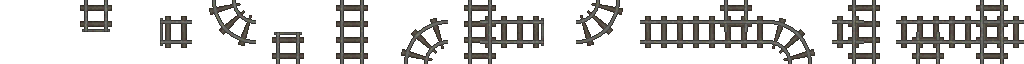
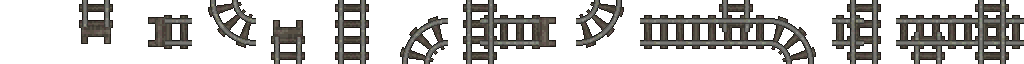
feat(terrain): bolder Floor 2 track, real buffer stops, wrapped pipe rivet bands
Track rails and sleepers widen (railHalfWidth 2->3, railOffset 10->11,
tieHalfWidth 2.5->3.5) and gain a near-black silhouette rim plus a wider
value spread, so they read as bold drawn linework instead of washing into
the floor. Mean and max luminance are deliberately held: restyle
normalises toward the target, so raising it would make track brighter,
which is the opposite of the note and violates the near-floor-tone rule.

Buffer stops now actually render. stubCurve caps alongMax at HALF, so
project() discarded every terminal pixel past the cell centre and the beam
was only ever half painted. A dedicated capCurve reaches CAP_REACH past
centre for Cap classification only, leaving rails and ties on the
HALF-limited stub so no connected edge profile changes. Terminals gain
braced buttress blocks and are cut from the sleeper material.

Pipe collars become paired rivet bands that wrap the bore rather than two
dots stuck to the silhouette, keeping the cylinder ramp and lifting it so
the ring reads as raised hardware.

diff --git a/scripts/sprites/terrain-packs/gen/linework-geometry.ts b/scripts/sprites/terrain-packs/gen/linework-geometry.ts
@@ -135,6 +135,16 @@ function straightCurve(bit: number): Curve {
 }
 
 /**
+ * Stub extended past the cell centre so terminal hardware can be projected.
+ * Used ONLY to classify `Cap` pixels on end-cap masks; rails and ties keep the
+ * HALF-limited `stubCurve`, so this cannot alter any connected edge's profile.
+ */
+function capCurve(bit: number): Curve {
+  const stub = stubCurve(bit) as Extract<Curve, { kind: 'line' }>;
+  return { ...stub, alongMax: HALF + CAP_REACH };
+}
+
+/**
  * Quarter arc joining two adjacent edge midpoints, centred on the cell corner
  * between them with radius `HALF`. This is the only corner geometry that leaves
  * the boundary profile identical to a straight's — see the file header.
@@ -198,32 +208,65 @@ export interface LineworkProfile {
   readonly tiePeriod: number;
   /** Arc-length phase of the first cross-member from the connected edge. */
   readonly tiePhase: number;
+  /**
+   * Arc-length offset of each ring in a PAIRED cross-member, or 0 for a single
+   * band. A pipe reads as pressure plumbing when its collars are rivet-band
+   * pairs rather than lone rings, and doubling the ring count is the cheapest
+   * honest way to add the "more rivet bands" the human asked for without
+   * shrinking the period so far that bands collide with the edge clearance.
+   */
+  readonly tieDoubleGap: number;
   /** Half-length of the terminal buffer stop / ground flange. */
   readonly capHalfLength: number;
   /** Half-width of the terminal hardware along the run. */
   readonly capHalfWidth: number;
 }
 
+/**
+ * How far past the cell centre terminal hardware may reach.
+ *
+ * Cap geometry needs its OWN curve. `stubCurve` stops at `alongMax = HALF`, so
+ * `project()` returns null for every pixel past the cell centre — which meant
+ * the original cap test `|along - HALF| <= capHalfWidth` only ever painted the
+ * near half of its beam, and any buttress behind that beam was silently
+ * discarded. Rails and ties keep the HALF-limited stub, so widening the cap
+ * reach cannot change what a connected edge paints.
+ */
+const CAP_REACH = 12;
+
+/** Half-length of a buffer-stop buttress measured inward from `capHalfLength`. */
+const BUTTRESS_DEPTH = 7;
+
+/** Arc length of a buffer-stop buttress behind the beam. */
+const BUTTRESS_LENGTH = 7;
+
+/** Skips the centreline pass when terminal hardware already claimed a pixel. */
+const EMPTY_CURVES: readonly Curve[] = [];
+
 /** Mine-cart track: two rail heads on periodic sleepers. */
 export const TRACK_PROFILE: LineworkProfile = {
-  railOffset: 10,
-  railHalfWidth: 2,
-  tieHalfLength: 16,
-  tieHalfWidth: 2.5,
+  railOffset: 11,
+  railHalfWidth: 3,
+  tieHalfLength: 17,
+  tieHalfWidth: 3.5,
   tiePeriod: 16,
   tiePhase: 8,
-  capHalfLength: 14,
-  capHalfWidth: 3,
+  tieDoubleGap: 0,
+  capHalfLength: 15,
+  capHalfWidth: 5,
 };
 
-/** Pipe run: one bore with periodic collars. */
+/** Pipe run: one bore with periodic rivet-band pairs. */
 export const PIPE_PROFILE: LineworkProfile = {
   railOffset: 0,
   railHalfWidth: 9,
   tieHalfLength: 12,
-  tieHalfWidth: 2.5,
+  tieHalfWidth: 1.8,
   tiePeriod: 32,
   tiePhase: 16,
+  // Rings sit at arc-length 11/21 and 43/53 of a 64-long straight — four bands
+  // per cell instead of two, every one of them clear of `TIE_EDGE_CLEARANCE`.
+  tieDoubleGap: 5,
   capHalfLength: 13,
   capHalfWidth: 3,
 };
@@ -259,6 +302,25 @@ const TIE_EDGE_CLEARANCE = 4;
 
 function isRail(off: number, profile: LineworkProfile): boolean {
   return Math.abs(Math.abs(off) - profile.railOffset) <= profile.railHalfWidth;
+}
+
+/** Arc-length position within one cross-member period. */
+function ringPhase(along: number, profile: LineworkProfile): number {
+  return (((along - profile.tiePhase) % profile.tiePeriod) + profile.tiePeriod) % profile.tiePeriod;
+}
+
+/**
+ * Signed arc-length distance from the nearest ring of a cross-member.
+ *
+ * With `tieDoubleGap === 0` this is the distance from the collar centre, i.e.
+ * the original single-band behaviour. With a positive gap the collar becomes a
+ * PAIR of rings straddling that centre, which is how a pipe gets twice the rivet
+ * bands without halving the period into the edge-clearance zone.
+ */
+function ringOffset(along: number, profile: LineworkProfile): number {
+  const phase = ringPhase(along, profile);
+  const centred = Math.min(phase, profile.tiePeriod - phase);
+  return centred - profile.tieDoubleGap;
 }
 
 /**
@@ -312,6 +374,11 @@ export function rasterizeLineworkFrame(
   const shade = new Float32Array(size * size);
   const curves = curvesForMask(mask);
   if (curves.length === 0) return { cls, shade };
+  // Terminal hardware is projected on its OWN extended curve so it can reach
+  // past the cell centre; see `CAP_REACH`.
+  const terminal = isEndCap ? capCurve(mask) : null;
+  const buttressNear = HALF + profile.capHalfWidth;
+  const buttressInner = profile.capHalfLength - BUTTRESS_DEPTH;
 
   for (let y = 0; y < size; y++) {
     for (let x = 0; x < size; x++) {
@@ -320,47 +387,68 @@ export function rasterizeLineworkFrame(
       const py = y + 0.5;
       let value: LineworkPixel = LINEWORK_PIXEL.Empty;
       let cross = 0;
-      for (const curve of curves) {
+      // Cap wins over rail: a buffer stop's beam sits ACROSS the rails, so the
+      // rails must read as running into it rather than over it.
+      if (terminal) {
+        const p = project(terminal, px, py);
+        if (p) {
+          const absOff = Math.abs(p.off);
+          if (absOff <= profile.capHalfLength && Math.abs(p.along - HALF) <= profile.capHalfWidth) {
+            value = LINEWORK_PIXEL.Cap;
+            cross = (p.along - HALF) / profile.capHalfWidth;
+          } else if (
+            absOff <= profile.capHalfLength &&
+            absOff >= buttressInner &&
+            p.along >= buttressNear &&
+            p.along <= buttressNear + BUTTRESS_LENGTH
+          ) {
+            // Two buttress blocks braced behind the beam. They are what makes a
+            // terminus read as deliberate hardware instead of a truncated run.
+            value = LINEWORK_PIXEL.Cap;
+            const mid = (profile.capHalfLength + buttressInner) / 2;
+            cross = litFraction(p.dx, p.dy) * ((absOff - mid) / (BUTTRESS_DEPTH / 2));
+          }
+        }
+      }
+      for (const curve of value === LINEWORK_PIXEL.Empty ? curves : EMPTY_CURVES) {
         const p = project(curve, px, py);
         if (!p) continue;
+        const len = curveLength(curve);
+        const onCrossMember =
+          Math.abs(p.off) <= profile.tieHalfLength &&
+          p.along >= TIE_EDGE_CLEARANCE &&
+          p.along <= len - TIE_EDGE_CLEARANCE &&
+          Math.abs(ringOffset(p.along, profile)) <= profile.tieHalfWidth;
         if (isRail(p.off, profile)) {
-          value = LINEWORK_PIXEL.Rail;
-          // Distance out from this member's own centreline, normalised.
-          cross = (Math.abs(p.off) - profile.railOffset) / profile.railHalfWidth;
           // A single-bore member (a pipe) is a cylinder, so it must be lit from
           // ONE fixed screen direction regardless of which way the run travels.
           // `litFraction` supplies that side; the normalised bore offset supplies
           // the depth, so +1 is the lit silhouette edge and -1 the shadowed one.
-          if (profile.railOffset === 0) {
-            cross = litFraction(p.dx, p.dy) * (Math.abs(p.off) / profile.railHalfWidth);
-          }
+          const round = profile.railOffset === 0;
+          // A rivet band WRAPS a pipe, so on a round body the collar takes the
+          // pixel and keeps the cylinder cross-coordinate — that is what makes it
+          // read as a raised ring instead of two dots stuck to the silhouette.
+          // Track sleepers pass UNDER their rails, so rails keep winning there.
+          value = round && onCrossMember ? LINEWORK_PIXEL.Tie : LINEWORK_PIXEL.Rail;
+          cross = round
+            ? litFraction(p.dx, p.dy) * (Math.abs(p.off) / profile.railHalfWidth)
+            : // Distance out from this member's own centreline, normalised.
+              (Math.abs(p.off) - profile.railOffset) / profile.railHalfWidth;
           break;
         }
-        const len = curveLength(curve);
-        if (
-          Math.abs(p.off) <= profile.tieHalfLength &&
-          p.along >= TIE_EDGE_CLEARANCE &&
-          p.along <= len - TIE_EDGE_CLEARANCE
-        ) {
-          const phase =
-            (((p.along - profile.tiePhase) % profile.tiePeriod) + profile.tiePeriod) %
-            profile.tiePeriod;
-          const centred = Math.min(phase, profile.tiePeriod - phase);
-          if (centred <= profile.tieHalfWidth) {
-            value = LINEWORK_PIXEL.Tie;
+        if (onCrossMember) {
+          value = LINEWORK_PIXEL.Tie;
+          if (profile.railOffset === 0) {
+            // The ring's protruding shoulders belong to the same cylinder as the
+            // bore they wrap, so they must be lit from the same screen direction.
+            cross = litFraction(p.dx, p.dy) * (Math.abs(p.off) / profile.tieHalfLength);
+          } else {
             // A cross-member is also a round bar, just oriented along the run.
-            cross =
-              (phase <= profile.tiePeriod - phase ? centred : -centred) / profile.tieHalfWidth;
-            continue;
+            const phase = ringPhase(p.along, profile);
+            const signed = phase <= profile.tiePeriod - phase ? 1 : -1;
+            cross = (signed * ringOffset(p.along, profile)) / profile.tieHalfWidth;
           }
-        }
-        if (
-          isEndCap &&
-          Math.abs(p.off) <= profile.capHalfLength &&
-          Math.abs(p.along - HALF) <= profile.capHalfWidth
-        ) {
-          value = LINEWORK_PIXEL.Cap;
-          cross = (p.along - HALF) / profile.capHalfWidth;
+          continue;
         }
       }
       cls[y * size + x] = value;

diff --git a/scripts/sprites/terrain-packs/import-floor2-linework.ts b/scripts/sprites/terrain-packs/import-floor2-linework.ts
@@ -240,7 +240,7 @@ const PIPE_STOPS = [
   { t: Number.POSITIVE_INFINITY, gain: 0.34 },
 ] as const;
 /** Rail head: bright running surface, dark web at the outside. */
-const RAIL_BANDS = [1.12, 0.94, 0.66] as const;
+const RAIL_BANDS = [1.25, 0.98, 0.58] as const;
 /** Cross-members sit lower than the body, with a slight crown of their own. */
 const TIE_BANDS = [0.86, 1.14, 0.9] as const;
 
@@ -258,11 +258,19 @@ function stopGain(stops: readonly { t: number; gain: number }[], shade: number):
   return stops[stops.length - 1]?.gain ?? 1;
 }
 
+/** A raised rivet band catches more light than the tube it wraps. */
+const COLLAR_GAIN = 1.22;
+
 function memberGain(cls: number, shade: number, round: boolean): number {
   if (cls === LINEWORK_PIXEL.Rail) {
     return round ? stopGain(PIPE_STOPS, shade) : bandGain(RAIL_BANDS, Math.abs(shade) * 2 - 1);
   }
-  if (cls === LINEWORK_PIXEL.Tie) return bandGain(TIE_BANDS, shade);
+  if (cls === LINEWORK_PIXEL.Tie) {
+    // On a round body the collar keeps the cylinder ramp and is simply lifted, so
+    // the band reads as raised hardware rather than a flat stripe painted across
+    // the tube.
+    return round ? stopGain(PIPE_STOPS, shade) * COLLAR_GAIN : bandGain(TIE_BANDS, shade);
+  }
   return bandGain(TIE_BANDS, shade) * 1.12;
 }
 
@@ -299,6 +307,30 @@ const PROP_PIXEL_STYLE: PixelArtMaterialStyle = {
   maxChroma: 6,
 };
 
+/**
+ * Track-specific restyle.
+ *
+ * The human called the shipped track "too light and too narrow". Only ONE of
+ * those is a brightness problem, and it is not the one it looks like:
+ * `restylePixelArtMaterial` normalises toward `targetMeanLuminance`, so raising
+ * the mean would make track objectively BRIGHTER — the opposite of the note, and
+ * a direct violation of the near-floor-tone rule above. "Too light" here means
+ * too WEAK: thin, low-contrast, washed into the floor. So the mean and the cap
+ * are held exactly where they are, and boldness comes from the three things that
+ * actually carry it — wider rails and sleepers (geometry), a wider value spread,
+ * and a much darker silhouette rim.
+ */
+const TRACK_PIXEL_STYLE: PixelArtMaterialStyle = {
+  ...LINEWORK_PIXEL_STYLE,
+  targetStdDev: 34,
+};
+
+/** Default silhouette darkening. */
+const RIM_SCALE_DEFAULT = RIM_SCALE;
+
+/** Track gets a near-black outline so rails read as drawn linework at zoom. */
+const TRACK_RIM_SCALE = 0.34;
+
 function isRim(cls: Uint8Array, size: number, x: number, y: number): boolean {
   const neighbours = [
     [x, y - 1],
@@ -321,6 +353,8 @@ function buildAtlas(
   tieTile: RgbaImage,
   /** True when the body is a single round tube rather than paired rail heads. */
   round: boolean,
+  style: PixelArtMaterialStyle = LINEWORK_PIXEL_STYLE,
+  rimScale: number = RIM_SCALE_DEFAULT,
 ): RgbaImage {
   const size = LINEWORK_CELL_PX;
   const width = size * FRAME_COUNT;
@@ -332,11 +366,13 @@ function buildAtlas(
         const c = cls[y * size + x] as number;
         const o = (y * width + frame * size + x) * 4;
         if (c === LINEWORK_PIXEL.Empty) continue;
-        const src = c === LINEWORK_PIXEL.Tie ? tieTile : bodyTile;
+        // Rails are the only member cut from the body material. Sleepers AND
+        // buffer stops are timber on a track, so the cap must follow the tie.
+        const src = c === LINEWORK_PIXEL.Rail ? bodyTile : tieTile;
         const [r, g, b] = sampleTile(src, frame, x, y);
         const gain =
           memberGain(c, shade[y * size + x] as number, round) *
-          (isRim(cls, size, x, y) ? RIM_SCALE : 1);
+          (isRim(cls, size, x, y) ? rimScale : 1);
         out.data[o] = clamp8(r * gain);
         out.data[o + 1] = clamp8(g * gain);
         out.data[o + 2] = clamp8(b * gain);
@@ -345,7 +381,7 @@ function buildAtlas(
       }
     }
   }
-  return restylePixelArtMaterial(out, LINEWORK_PIXEL_STYLE);
+  return restylePixelArtMaterial(out, style);
 }
 
 /**
@@ -585,7 +621,10 @@ async function main(): Promise<void> {
   );
 
   console.log('Floor 2 linework: atlases');
-  write('linework-track.png', buildAtlas(TRACK_PROFILE, steel, timber, false));
+  write(
+    'linework-track.png',
+    buildAtlas(TRACK_PROFILE, steel, timber, false, TRACK_PIXEL_STYLE, TRACK_RIM_SCALE),
+  );
   write('linework-pipe.png', buildAtlas(PIPE_PROFILE, iron, iron, true));
   write('linework-props.png', restylePixelArtMaterial(buildPropAtlas(propsRaw), PROP_PIXEL_STYLE));
 
